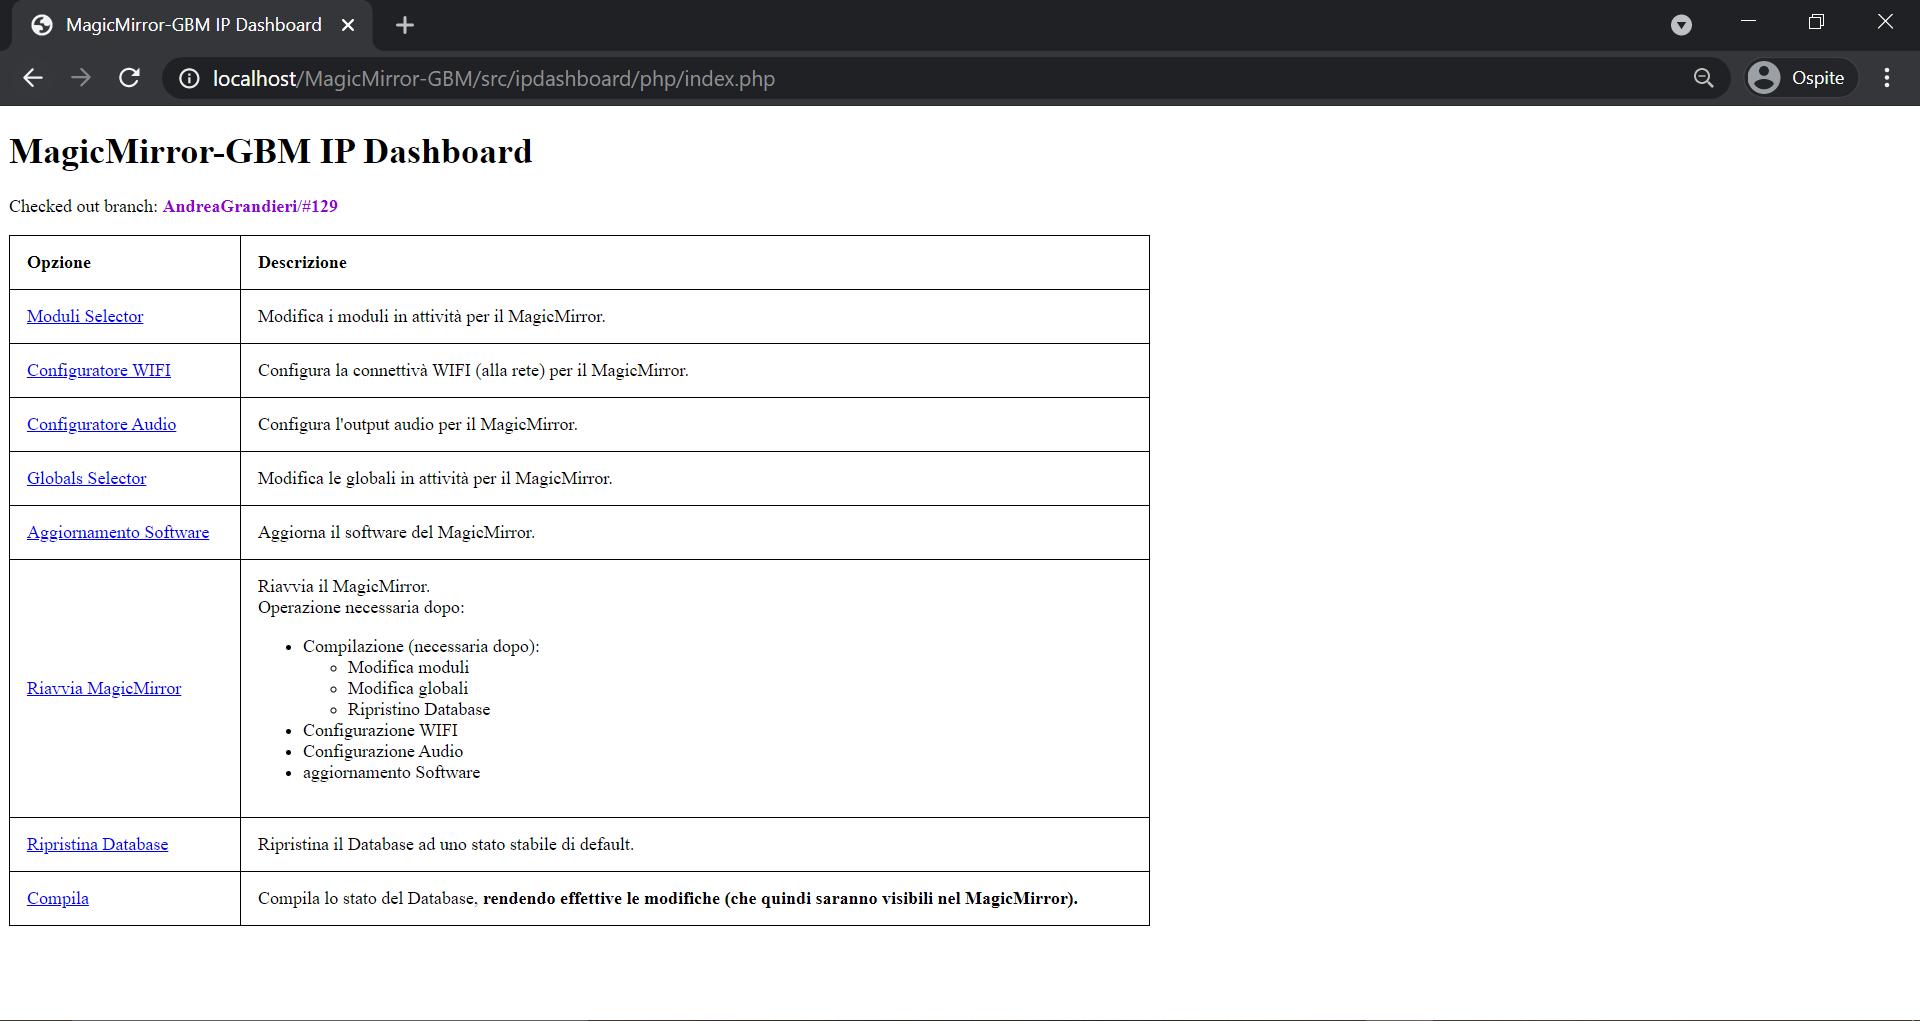
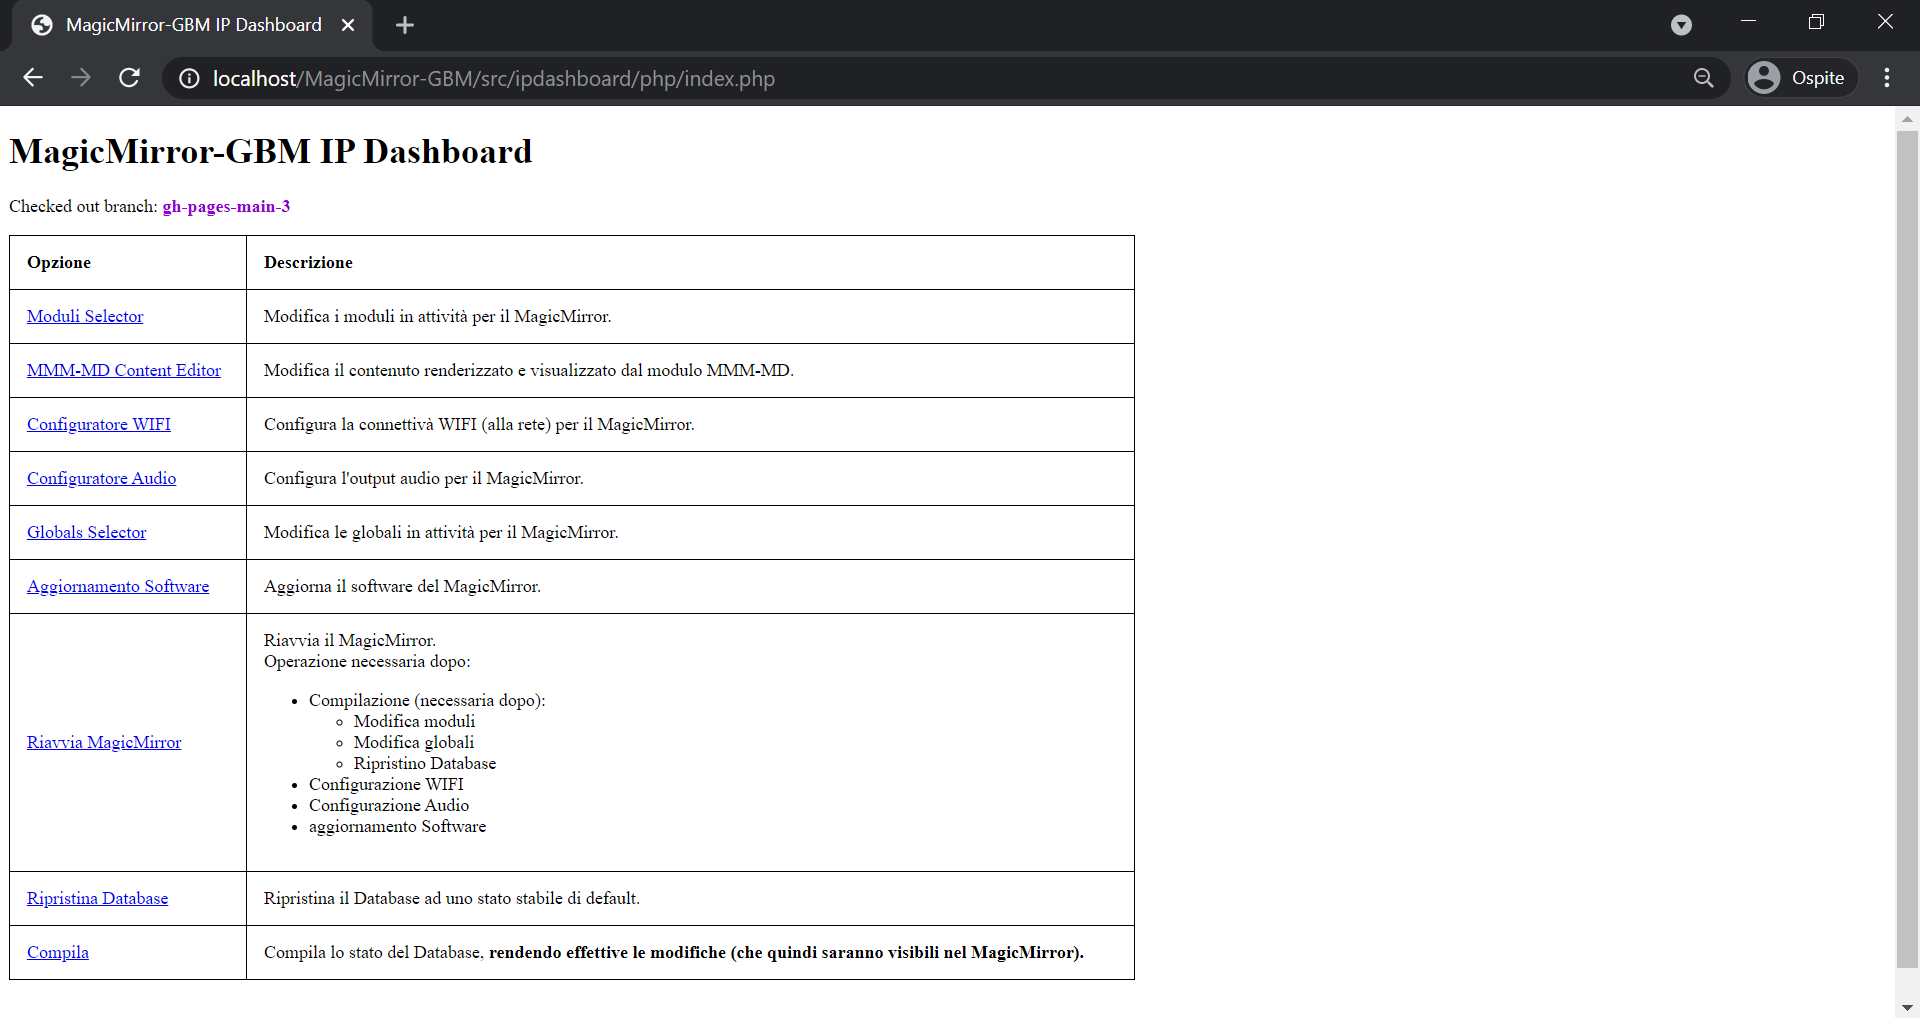
#129

diff --git a/docs/pages/MagicMirror-GBM-IP-Dashboard.md b/docs/pages/MagicMirror-GBM-IP-Dashboard.md
@@ -17,6 +17,15 @@ Home Page. Da qui puoi accedere le diverse funzionalità dell'interfaccia.
 
 ---
 
+> MMM-MD-ContentEditor.php
+
+Embedded editor MD. Qui puoi modificare il contenuto renderizzato e visualizzato dal modulo MMM-MD.
+Qui per maggiori informazioni: [https://github.com/AndreaGrandieri/MMM-MD](https://github.com/AndreaGrandieri/MMM-MD)
+
+![MMM-MD-ContentEditor.php.PNG](../assets/Overview-GUI/ipdashboard-GUI/MMM-MD-ContentEditor.php.PNG)
+
+---
+
 > moduliSelector.php
 
 Lista dei moduli presenti nel Database del MagicMirror-GBM.

diff --git a/docs/README.md b/docs/README.md
@@ -12,6 +12,10 @@
 
 ---
 
+![one-face-GUI.gif](assets/Overview-GUI/MagicMirror-GBM-GUI/one-face-GUI.gif)
+
+---
+
 ## MagicMirror-GBM-OS
 
 Il MagicMirror-GBM è reso funzionale dal suo sistema operativo: `MagicMirror-GBM-OS`.
